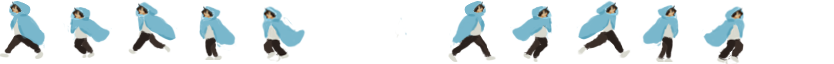
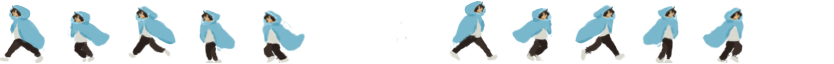
anim

diff --git a/src/objects/Player.js b/src/objects/Player.js
@@ -20,8 +20,8 @@ class Player extends Phaser.Physics.Arcade.Sprite{
 
 
 
-        this.setBodySize(this.body.width-38,this.body.height);//taille de la hitbox
-        this.setOffset(15, 0);
+        this.setBodySize(this.body.width-38,this.body.height-5);//taille de la hitbox
+        this.setOffset(15, 5);
 
         this.anims.create({
             key: 'left',
@@ -38,8 +38,8 @@ class Player extends Phaser.Physics.Arcade.Sprite{
         });
         this.anims.create({
             key: 'stance',
-            frames: this.anims.generateFrameNumbers('player_stance', { start: 6, end: 9  }),
-            frameRate: 5,
+            frames: this.anims.generateFrameNumbers('player_stance', { start: 6, end: 12/*9*/  }),
+            frameRate: 4,
             repeat: -1
         });
         this.anims.create({
@@ -138,7 +138,7 @@ class Player extends Phaser.Physics.Arcade.Sprite{
 
 
         if(this._directionY<0){ //gère la hauteur du saut du perso
-            this.jump();//fonction gérant l'anim de saut
+            //this.jump();//fonction gérant l'anim de saut
 
             if(this.body.blocked.down || this.body.touching.down){
                 //this.setVelocityY(-500);

diff --git a/src/scenes/structure/Tableau.js b/src/scenes/structure/Tableau.js
@@ -26,12 +26,16 @@ class Tableau extends Phaser.Scene{
         this.load.image('sky', 'assets/ciel.png');
         this.load.image('spike', 'assets/spike.png');
         this.load.image('blood', 'assets/blood.png');
+       /*this.load.spritesheet('player',
+            'assets/player_3_couleurs.png',
+            { frameWidth: 64, frameHeight: 64  }
+        );*/
         this.load.spritesheet('player',
-            'assets/animations/lumel/Run_test_28.png',/*'assets/player_3_couleurs.png',*/
+            'assets/animations/lumel/Run_test_31.png',
             { frameWidth: 64, frameHeight: 64  }
         );
         this.load.spritesheet('player_stance',
-            'assets/animations/lumel/Stance_test_3.png',
+            'assets/animations/lumel/Stance_test_7.png',
             { frameWidth: 86, frameHeight: 64  }
         );
         this.load.spritesheet('player_jump',
